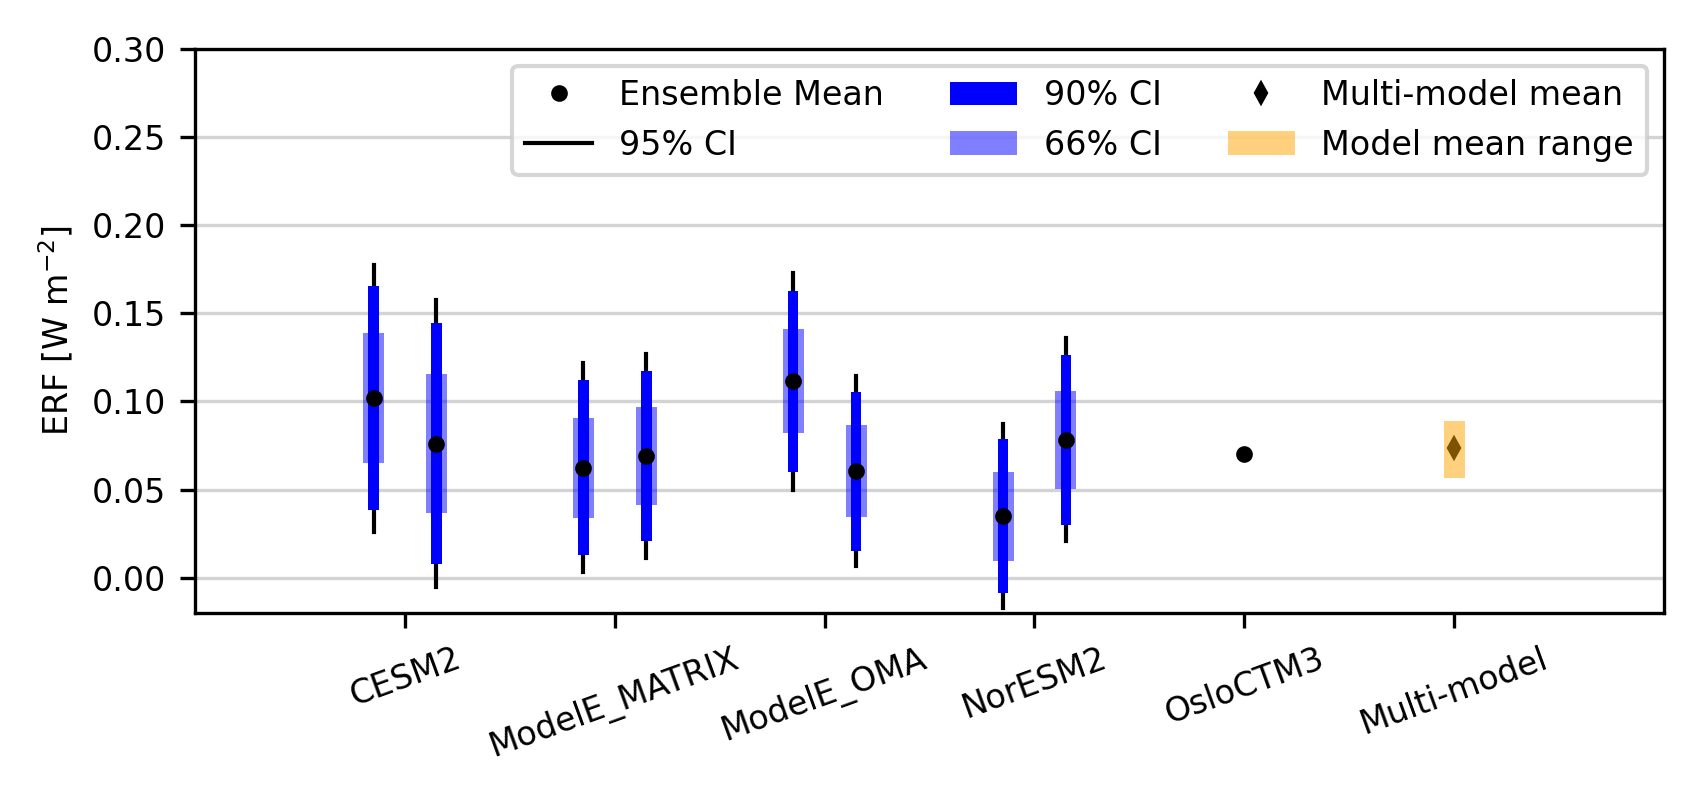
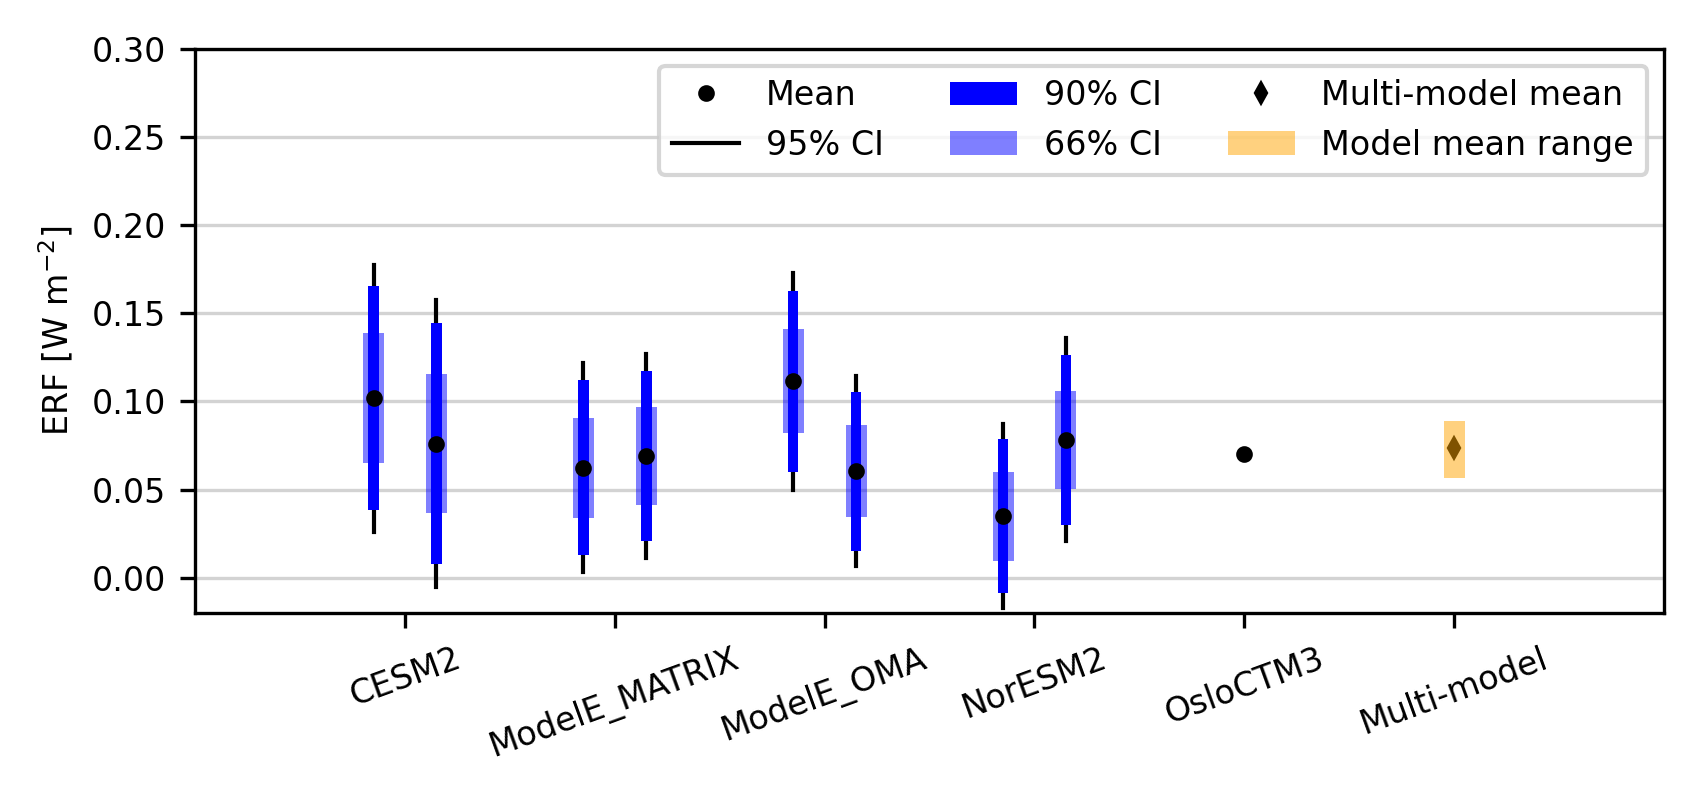
updates made in the revision

Changed region(s): [[0.2806, 0.0625, 0.53, 0.2188]]

diff --git a/figure_model_and_multimodel_mean.py b/figure_model_and_multimodel_mean.py
@@ -1,0 +1,144 @@
+import numpy as np
+import pandas as pd
+import xarray as xr
+import matplotlib.pyplot as plt
+import cartopy.crs as ccrs
+import cartopy.feature as cfeature
+from cartopy.util import add_cyclic_point
+
+
+plt.rcParams['hatch.linewidth'] = 0.5
+
+plt.rcParams['figure.dpi'] = 300
+
+plt.rcParams['font.size'] = 8
+plt.rcParams.update({'mathtext.default':  'regular' })
+
+cmap = plt.get_cmap('bwr')
+levels = np.arange(-0.8,0.8+0.1,0.1)
+
+model_list = ['cesm','noresm','osloctm3','giss_oma','giss_matrix']
+
+antmod = float(len(model_list))
+print(antmod)
+
+
+var_list = {'cesm':'ensmean',
+            'noresm':'ensmean',
+            'giss_oma':'ensmean',
+            'giss_matrix':'ensmean',
+            'osloctm3':'RFtot'}
+
+
+model_list_dict = {'cesm': 'CESM2',
+                   'noresm':'NorESM2',
+                   'osloctm3':'OsloCTM3',
+                   'giss_oma':'ModelE OMA',
+                   'giss_matrix':'ModelE MATRIX'}
+
+
+letter_list = ['a','b','c','d','e']
+               
+
+fig, axd = plt.subplot_mosaic(
+    """
+    abc
+    de.
+    ff.
+    ff.
+    """, figsize=(6,5), subplot_kw={'projection': ccrs.PlateCarree()}
+)
+
+    
+
+    
+for modnr,model in enumerate(model_list):
+    print(model)
+    data = xr.open_dataset('netcdf_files/ERF_modelmean_'+model+'.nc')
+    data_regridded= xr.open_dataset('netcdf_files/regridded/ERF_modelmean_'+model+'.nc')
+    var = var_list[model]
+    #print(data_regridded)
+    ax = axd[letter_list[modnr]]
+    #ax = axs[0,modnr]
+    ax.set_global()
+    ax.coastlines()
+    data[var].plot(ax=ax,cmap=cmap,levels=levels,transform=ccrs.PlateCarree(),add_colorbar=False)
+    ax.set_title(letter_list[modnr] + ') '+model_list_dict[model],loc='left')
+
+    #ax = axs[1,modnr]
+    #ax.set_global()
+    #ax.coastlines()
+    #data_regridded[var].plot(ax=ax,cmap=cmap,levels=levels,transform=ccrs.PlateCarree())
+
+    data_regridded['sign'] = xr.where(data_regridded[var]<=0,data_regridded[var], 1)
+    data_regridded['sign'] = xr.where(data_regridded[var]>0,data_regridded['sign'], 0)
+    #ax = axs[2,modnr]
+    #ax.set_global()
+    #ax.coastlines()
+    #data_regridded['sign'].plot(ax=ax,cmap=cmap,levels=levels,transform=ccrs.PlateCarree())
+    
+    #print(data_regridded['sign'])
+    #exit()
+    
+
+
+    if modnr == 0:
+        data_modelmean = data_regridded[var].squeeze()
+        sign_modelmean = data_regridded['sign'].squeeze()
+    else:
+        data_modelmean = data_modelmean + data_regridded[var].squeeze()#.values
+        sign_modelmean = sign_modelmean + data_regridded['sign'].squeeze()
+
+print(sign_modelmean)
+
+
+
+data_modelmean = data_modelmean/antmod
+data_modelmean.name = 'multimodelmean'
+print(data_modelmean)
+
+axs  = axd['f']
+axs.set_global()
+axs.coastlines()
+#data_modelmean.plot(ax=axs,cmap=cmap,levels=levels,transform=ccrs.PlateCarree(),
+#                    cbar_kwargs={'label': '[W m$^{-2}$]'})
+cbar_ax = fig.add_axes([0.74,0.14,0.03,0.5])  #x0,y0,dx,dy #HER KAN DU SETTE POS OG STR FOR COLORBAREN
+data_modelmean.plot(ax=axs,cmap=cmap,levels=levels,transform=ccrs.PlateCarree(),
+                    cbar_kwargs={'label': '[W m$^{-2}$]',"cax":cbar_ax})
+
+#Bruke denne:
+sign_lon = sign_modelmean.lon.values
+sign_lat = sign_modelmean.lat.values
+
+sign_data = sign_modelmean.values
+sign_data, sign_lon = add_cyclic_point(sign_data, coord=sign_lon)
+#axs.contourf(sign_lon,sign_lat,sign_data,levels=[0,1,4,5],colors='none',hatches=[None,'////',None],transform=ccrs.PlateCarree())
+
+#Brukt i submission : axs.contourf(sign_lon,sign_lat,sign_data,levels=[0,1,4,5],colors='none',hatches=['...',None,'...'],transform=ccrs.PlateCarree())
+
+#axs.contourf(sign_lon,sign_lat,sign_data,levels=[0,1,4,5],colors='none',hatches=['.....',None,'.....'],transform=ccrs.PlateCarree())
+
+axs.contourf(sign_lon,sign_lat,sign_data,levels=[0,1,4,5],colors='none',hatches=['xxxx',None,'xxxx'],transform=ccrs.PlateCarree())
+
+#axs.contourf(sign_lon,sign_lat,sign_data,levels=[0,1,4,5],colors='none',hatches=['////',None,'////'],transform=ccrs.PlateCarree())
+
+
+#axs.contourf(sign_lon,sign_lat,sign_data,levels=[0,1,4,5],colors='none',hatches=[None,'////',None],transform=ccrs.PlateCarree())
+
+
+"""
+
+sign_modelmean.plot.contourf(ax=axs,levels=[0,1,4,5],colors='none',hatches=[None,'////',None],transform=ccrs.PlateCarree())
+"""
+print('Maxvalue')
+print(data_modelmean.max())
+
+[mlat,mlon] = data_modelmean.argmax(dim=["lat","lon"])
+print(mlat)
+print(mlon)
+axs.set_title(' ')
+axs.set_title('f) Multi model mean',loc='left')
+
+#plt.tight_layout()
+plt.savefig('figure_multimodel_mean_and_ens_mean.png')
+#plt.show()

diff --git a/plot_erf_figure.py b/plot_erf_figure.py
@@ -29,7 +29,7 @@ print(model_list_out)
 
 
 
-label_mean = 'Ensemble Mean'
+label_mean = 'Mean'
 label_95 = '95% CI'
 label_90 = '90% CI'
 label_66 = '66% CI'
